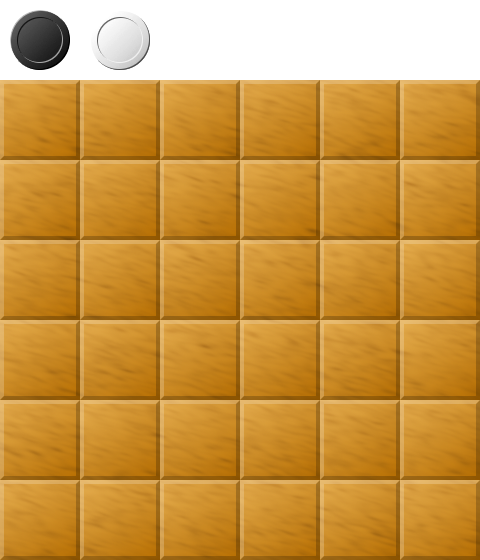
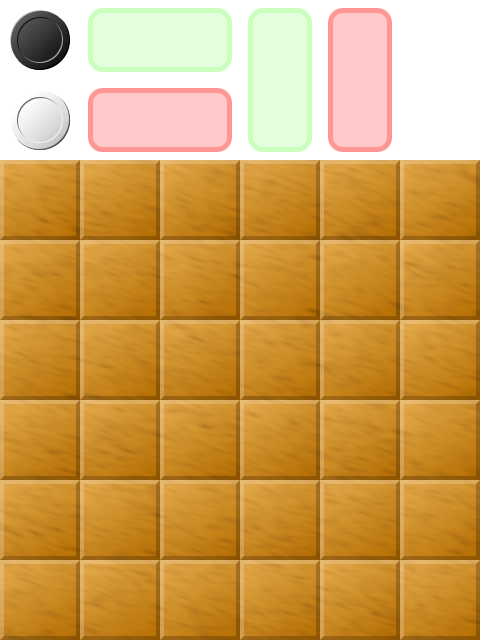
Added highlight textures and changed texture positions

diff --git a/SwapGame/EntryPoint.cpp b/SwapGame/EntryPoint.cpp
@@ -78,15 +78,35 @@ void SDLmain(int argc, char** argv)
 	Rect_Black.w = 80;
 	Rect_Black.h = 80;
 	SDL_Rect Rect_White;
-	Rect_White.x = 80;
-	Rect_White.y = 0;
+	Rect_White.x = 0;
+	Rect_White.y = 80;
 	Rect_White.w = 80;
 	Rect_White.h = 80;
 	SDL_Rect Rect_Board;
 	Rect_Board.x = 0;
-	Rect_Board.y = 80;
+	Rect_Board.y = 160;
 	Rect_Board.w = 480;
 	Rect_Board.h = 480;
+	SDL_Rect Rect_Highlight_1H;
+	Rect_Highlight_1H.x = 80;
+	Rect_Highlight_1H.y = 0;
+	Rect_Highlight_1H.w = 160;
+	Rect_Highlight_1H.h = 80;
+	SDL_Rect Rect_Highlight_0H;
+	Rect_Highlight_0H.x = 80;
+	Rect_Highlight_0H.y = 80;
+	Rect_Highlight_0H.w = 160;
+	Rect_Highlight_0H.h = 80;
+	SDL_Rect Rect_Highlight_1V;
+	Rect_Highlight_1V.x = 240;
+	Rect_Highlight_1V.y = 0;
+	Rect_Highlight_1V.w = 80;
+	Rect_Highlight_1V.h = 160;
+	SDL_Rect Rect_Highlight_0V;
+	Rect_Highlight_0V.x = 320;
+	Rect_Highlight_0V.y = 0;
+	Rect_Highlight_0V.w = 80;
+	Rect_Highlight_0V.h = 160;
 
 	bool running = true;
 	SDL_Event ev;
@@ -96,6 +116,7 @@ void SDLmain(int argc, char** argv)
 	float swapAnimation = 0;
 	float swapAnim2 = 0;
 	bool swapping = true;
+	bool vertical = true;
 	int swapPos = 12;
 	int swapPos2 = 18;
 	GAME_STATE finalState = PerformSwap(displayState, swapPos, swapPos2);
@@ -136,12 +157,18 @@ void SDLmain(int argc, char** argv)
 				&dest);
 		}
 		if (swapping) {
-			swapAnim2 = lerp(swapAnim2, 1, 0.5f);
-			swapAnimation = lerp(swapAnimation, swapAnim2, 0.5f);
+			swapAnim2 = lerp(swapAnim2, 1, 0.2f);
+			swapAnimation = lerp(swapAnimation, swapAnim2, 0.2f);
 			
 			if (swapAnimation > endSwapAnimation) {
 				swapping = false;
 			}
+			dest = vertical ? Rect_Highlight_1V : Rect_Highlight_1H;
+			GetScreenPos(swapPos, dest.x, dest.y);
+			SDL_RenderCopy(renderer, tex,
+				vertical ? &Rect_Highlight_1V : &Rect_Highlight_1H,
+				&dest);
+
 		} else {
 			swapAnimation = 0.0f;
 			swapAnim2 = 0.0f;
@@ -149,7 +176,7 @@ void SDLmain(int argc, char** argv)
 			seenStates.insert(displayState);
 			swapping = true;
 			while (seenStates.count(finalState)) {
-				bool vertical = !!(rand() & 1);
+				vertical = !!(rand() & 1);
 				if (vertical) {
 					int x = rand() % BOARD_WIDTH;
 					int y = rand() % (BOARD_HEIGHT - 1);
